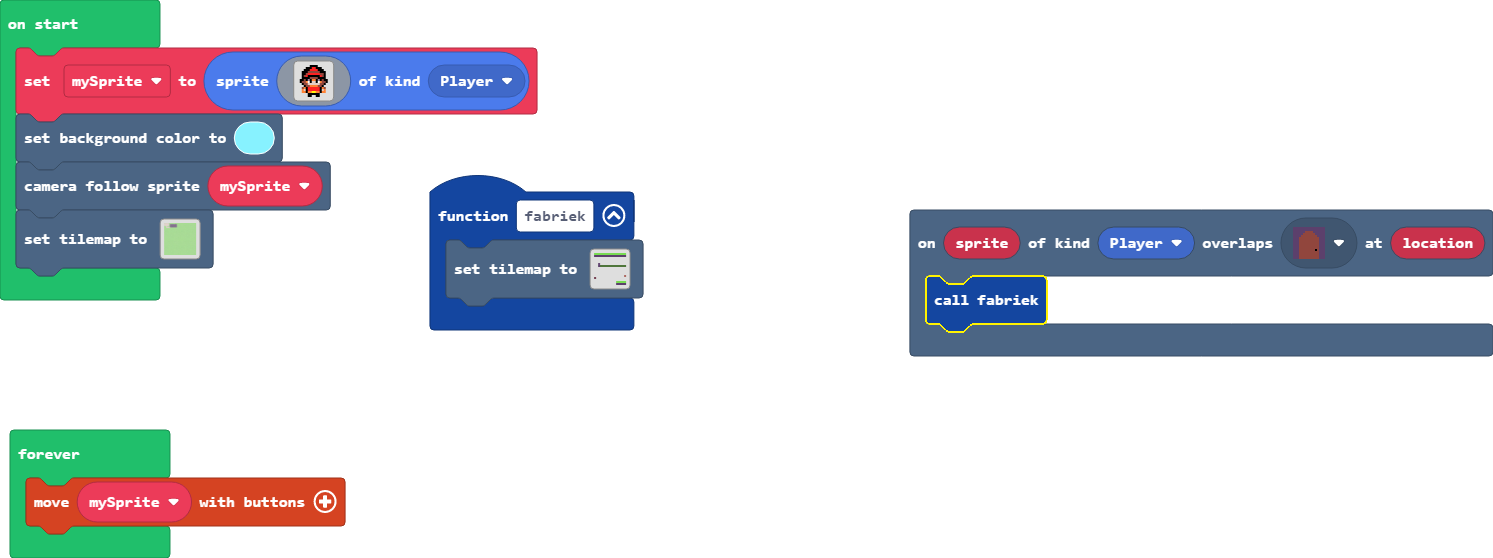
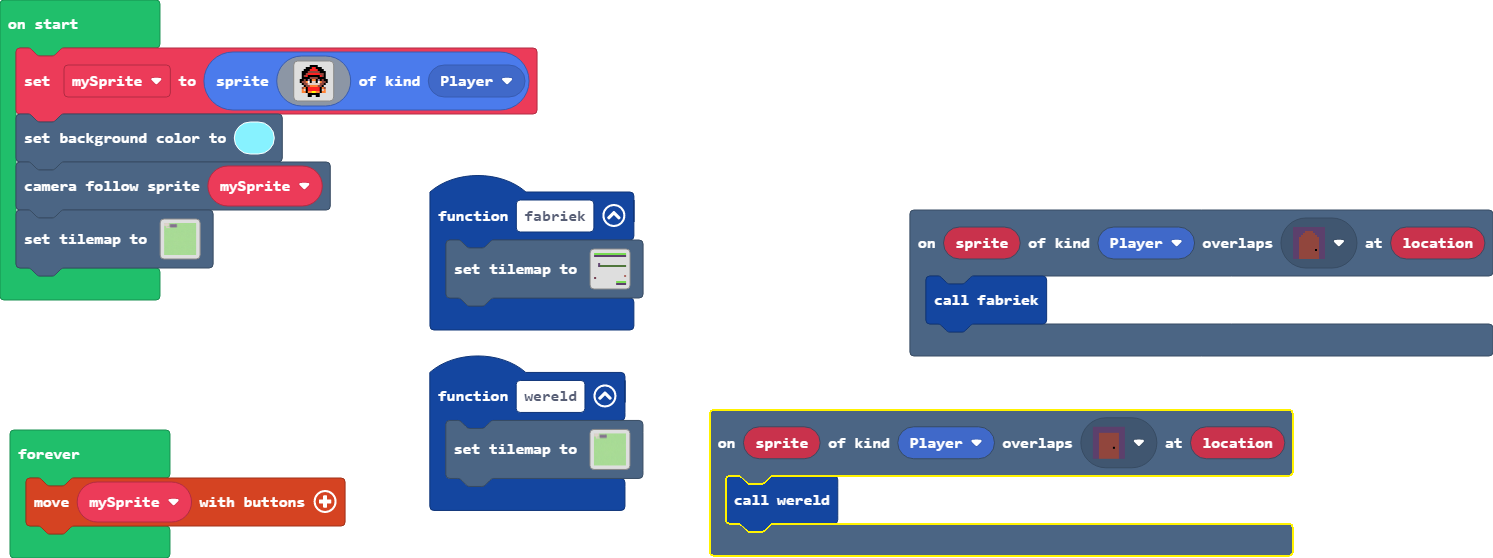
Update main.blocks, main.ts, tilemap.g.jres, tilemap.g.ts

diff --git a/tilemap.g.ts b/tilemap.g.ts
@@ -259,6 +259,25 @@ namespace myTiles {
 . . . . . . . . . . . . . . . . 
 . . . . . . . . . . . . . . . . 
 `, [myTiles.transparency16,myTiles.tile26,myTiles.tile23,myTiles.tile27,myTiles.tile28,myTiles.tile29,myTiles.tile30], TileScale.Sixteen);
+            case "level5":
+            case "level5":return tiles.createTilemap(hex`1000100000000000000000000000000000000000000000000000000000000000000000000000000000000000000000000000000000000000000000000000000000000000000000000000000000000000000000000000000000000000000000000000000000000000000000000000000000000000000000000000000000000000000000000000000000000000000000000000000000000000000000000000000000000000000000000000000000000000000000000000000000000000000000000000000000000000000000000000000000000000000000000000000000000000000000000000000000000000000000000000000000000000000000000000000000000000`, img`
+. . . . . . . . . . . . . . . . 
+. . . . . . . . . . . . . . . . 
+. . . . . . . . . . . . . . . . 
+. . . . . . . . . . . . . . . . 
+. . . . . . . . . . . . . . . . 
+. . . . . . . . . . . . . . . . 
+. . . . . . . . . . . . . . . . 
+. . . . . . . . . . . . . . . . 
+. . . . . . . . . . . . . . . . 
+. . . . . . . . . . . . . . . . 
+. . . . . . . . . . . . . . . . 
+. . . . . . . . . . . . . . . . 
+. . . . . . . . . . . . . . . . 
+. . . . . . . . . . . . . . . . 
+. . . . . . . . . . . . . . . . 
+. . . . . . . . . . . . . . . . 
+`, [myTiles.transparency16], TileScale.Sixteen);
         }
         return null;
     })

diff --git a/main.ts b/main.ts
@@ -1,9 +1,15 @@
+function wereld () {
+    tiles.setTilemap(tilemap`level3`)
+}
 scene.onOverlapTile(SpriteKind.Player, assets.tile`tile37`, function (sprite, location) {
     fabriek()
 })
 function fabriek () {
     tiles.setTilemap(tilemap`level4`)
 }
+scene.onOverlapTile(SpriteKind.Player, assets.tile`tile41`, function (sprite, location) {
+    wereld()
+})
 let mySprite = sprites.create(img`
     . . . . . . f f f f . . . . . . 
     . . . . f f f 2 2 f f f . . . . 
